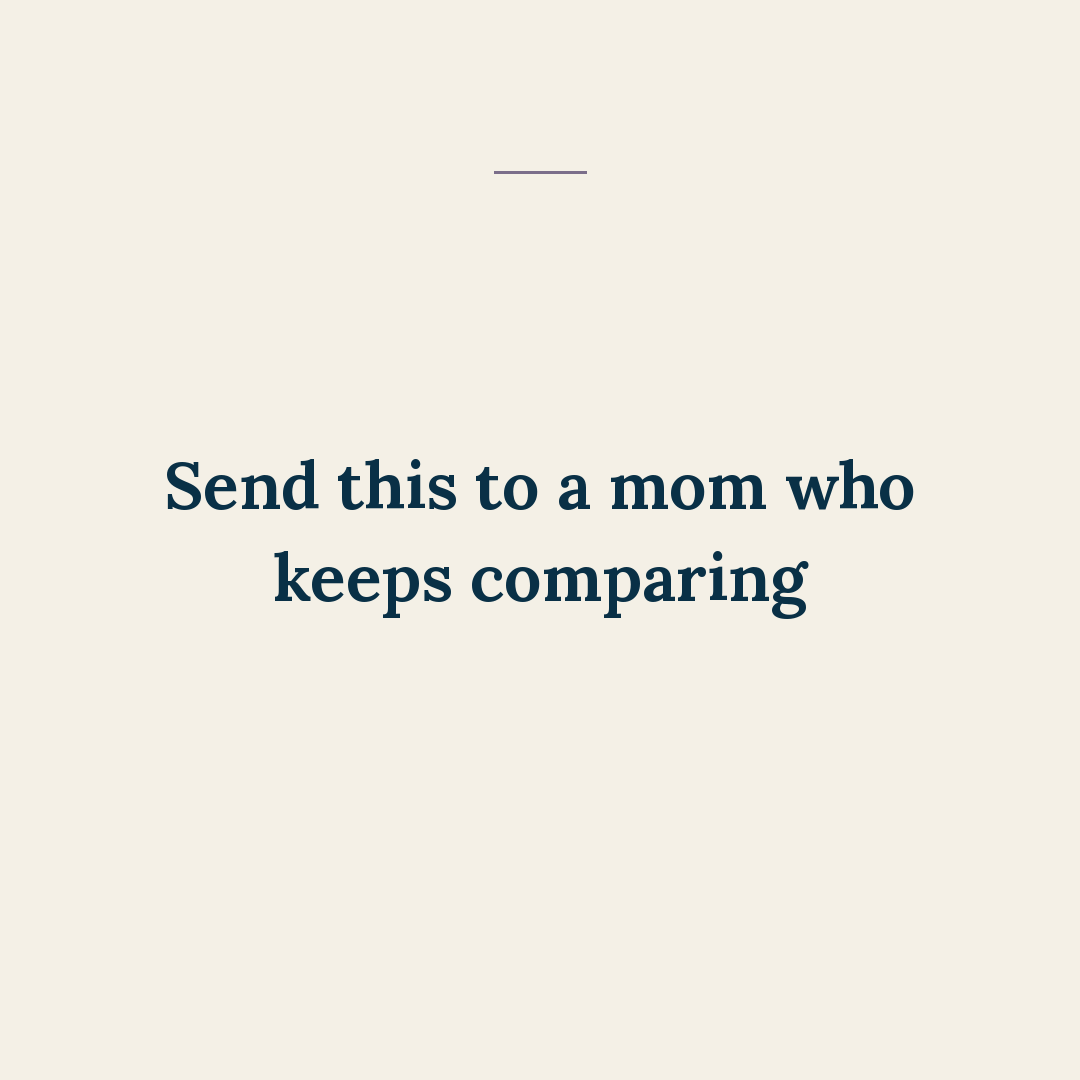
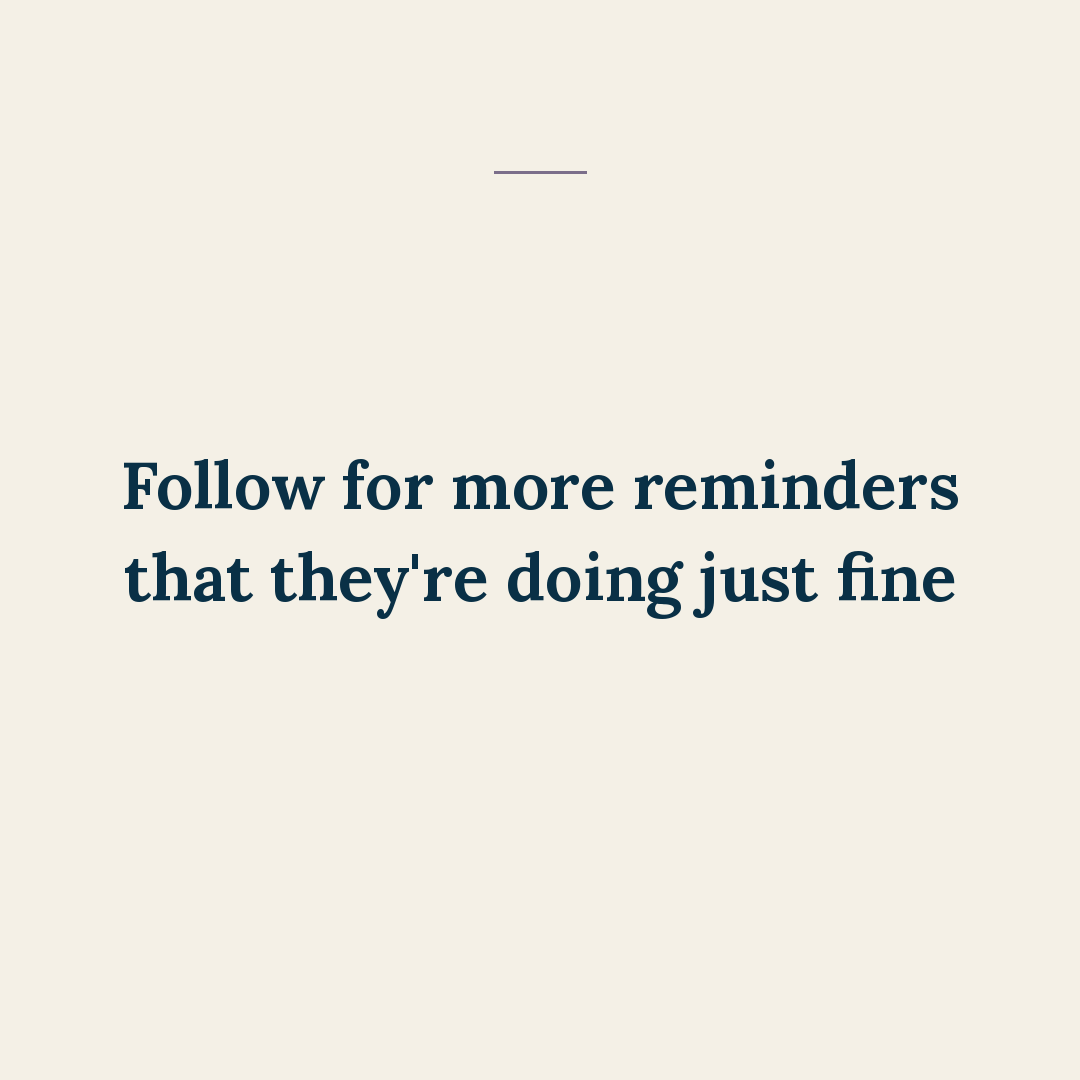
Add 44-measuring-against-someone-elses (44 - Measuring Against Someone Elses)

Changed region(s): [[0.0917, 0.4278, 0.8861, 0.5806]]

diff --git a/posts/44-measuring-against-someone-elses/slides.md b/posts/44-measuring-against-someone-elses/slides.md
@@ -1,6 +1,7 @@
 # 44 - Measuring Against Someone Elses
 
-Format: carousel · bg cream · lane Warmth · CTA Share · hook #59
+Format: carousel · bg cream · lane Warmth · CTA Follow · hook #59
+Revised 2026-08-09 from Ben's review workbook (post-review-2026-08-10.numbers).
 
 ## Cover
 If you're measuring your newborn against someone else's…
@@ -12,7 +13,7 @@ If you're measuring your newborn against someone else's…
 04  Their milestones were never your report card
 05  The one in front of you is doing fine
 
-## Closer (share)
-Send this to a mom who keeps comparing
+## Closer (follow)
+Follow for more reminders that they're doing just fine
 
 Rendered slide-1..slide-7 (weight 650, cover byline on).
